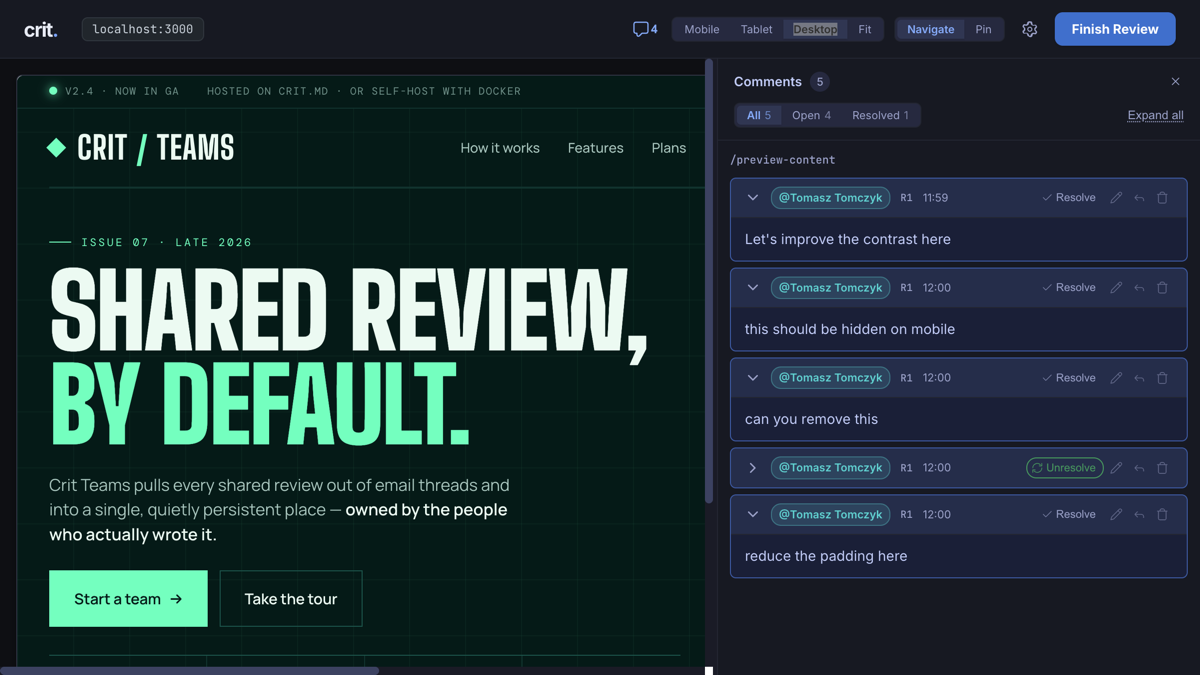
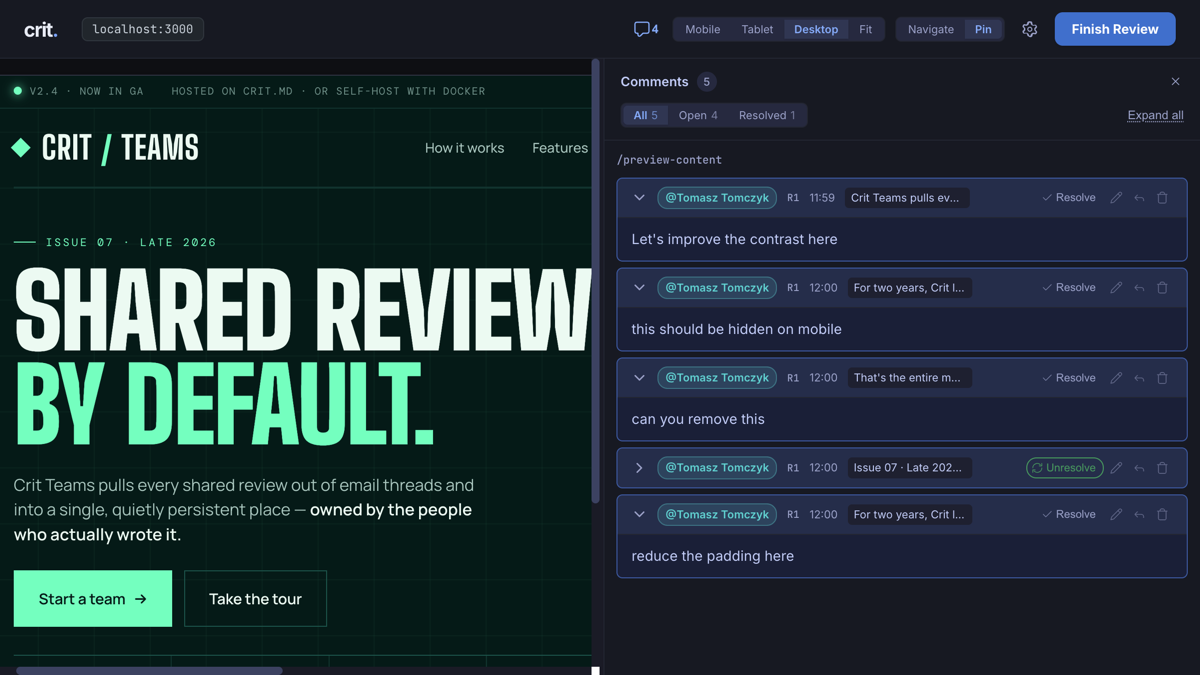
fix: video modal blocked by CSP + update live screenshots
The inline onclick handlers on the video modal were blocked by the
Content-Security-Policy (script-src doesn't allow unsafe-inline).
Replaced with data-* attributes and document-level event delegation
in app.js. Also updated live mode screenshots.

diff --git a/assets/js/app.js b/assets/js/app.js
@@ -269,15 +269,32 @@ document.addEventListener("click", e => {
   }
 })
 
-// Home page: close video modal on Escape
-document.addEventListener("keydown", (e) => {
-  if (e.key === "Escape") {
-    const modal = document.getElementById("video-modal")
-    if (modal && !modal.hidden) {
-      modal.hidden = true
-      document.getElementById("video-iframe").src = ""
-    }
+// Home page: video modal (open, close, backdrop-click, Escape)
+function closeVideoModal() {
+  const modal = document.getElementById("video-modal")
+  if (modal && !modal.hidden) {
+    modal.hidden = true
+    document.getElementById("video-iframe").src = ""
   }
+}
+
+document.addEventListener("click", (e) => {
+  const openBtn = e.target.closest("[data-video-open]")
+  if (openBtn) {
+    e.preventDefault()
+    const modal = document.getElementById("video-modal")
+    if (modal) {
+      modal.hidden = false
+      document.getElementById("video-iframe").src = openBtn.dataset.videoSrc
+    }
+    return
+  }
+  if (e.target.closest("[data-video-close]")) return closeVideoModal()
+  if (e.target.matches("[data-video-backdrop]")) closeVideoModal()
+})
+
+document.addEventListener("keydown", (e) => {
+  if (e.key === "Escape") closeVideoModal()
 })
 
 // Home page: testimonials scroll-triggered reveal.
